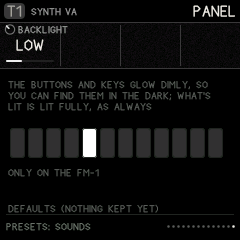
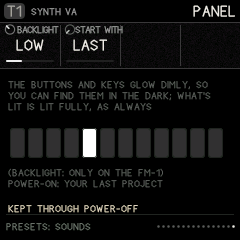
Power-on opens the last project saved or loaded (test build)
GLO > PANEL: START WITH LAST (the default) or BLANK, kept in the device settings with the slot last
saved or loaded (a third prefs version: the two before load, as LAST with none known). At power-on,
ravel_start opens that slot and says so ("OPENED 3 NAME") once the start screen is gone. Not after a
reset while it ran (a crash, a hang, an update: a mark in .noinit, which a reset keeps and a power-off
loses): then it starts blank ("AFTER A RESET: NEW PROJECT"), so a project that can't be opened can't stop
it starting. Clearing that slot forgets it. A damaged slot: a blank project, said so. No autosave, no
project format change; the slot is only read.

Host: reboot (off and on) and reset (a reset while it ran). Scenario start_last.rvl. README: PANEL,
the projects' start, What's new; the PANEL screenshot.

Claude-Session: https://claude.ai/code/session_01BwzGhPZLDZkrxZk5dy3Yyf

diff --git a/firmware/app/rv_ui.c b/firmware/app/rv_ui.c
@@ -232,7 +232,7 @@ static const page_t pages[] = {
     {SEC_SONG, V_ALL, PIC_CPU2, PR_NONE, "CPU 2", {{K_STRESS, 7}, {K_STRESS, 8}, {K_STRESS, 9}, {K_STRESS, 10}}},   /* BUFFER, GUARD, SCREEN, CORE TEST */
     {SEC_SONG, V_ALL, PIC_STRESS, PR_NONE, "STRESS", {{K_STRESS, 0}, {K_STRESS, 1}, {K_STRESS, 2}, NO}},   /* how much this unit takes */
     {SEC_SONG, V_ALL, PIC_FLASH, PR_NONE, "FLASH", {NO, NO, NO, NO}},   /* the flash as the boot set it up (read only) */
-    {SEC_SONG, V_ALL, PIC_PANEL, PR_NONE, "PANEL", {{K_LRN, 3}, NO, NO, NO}},   /* the FM-1's own: kept through power-off */
+    {SEC_SONG, V_ALL, PIC_PANEL, PR_NONE, "PANEL", {{K_LRN, 3}, {K_LRN, 5}, NO, NO}},   /* the FM-1's own: kept through power-off; START WITH: the last project at power-on, or a blank one */
 
     {SEC_SAVE, V_ALL, PIC_SAVE, PR_SLOT, "PROJECT", {{K_SAVE, 0}, {K_SAVE, 1}, {K_SAVE, 2}, NO}},   /* the action; the project's name, as SOUNDS names a sound */
     {SEC_SAVE, V_ALL, PIC_BANK, PR_BANK, "SOUNDS", {{K_BANK, 0}, {K_BANK, 1}, {K_BANK, 2}, {K_BANK, 3}}},   /* your own sounds, any kind, in banks A-D */
@@ -537,7 +537,10 @@ typedef struct {
     uint8_t back;                                     /* BACKLIGHT + 1 (0: never set, LOW); bit 7: STEP REC STAY */
     uint8_t nb;                                       /* the learned controls */
     mbind_t b[NBIND];
+    uint8_t start;                                    /* (third version) bit 0: START WITH a blank project (0: the last one) */
+    uint8_t last;                                     /* the project last saved or loaded: its slot + 1 (0: none) */
 } prefs_t;
+#define PREFS_V2 ((int)__builtin_offsetof(prefs_t, start))   /* (the second version: no START WITH) */
 static const uint8_t pref_gp[3] = {GP_MIDICH, GP_MIDICLK, GP_MIDITRN};
 static prefs_t prefs;
 static uint8_t prefs_dirty, prefs_tries;
@@ -547,6 +550,16 @@ static const page_t *prefs_pg;                        /* the page it changed on 
 static uint8_t learn;                                 /* 0 off, 1 armed: waiting for a knob, 2: a knob chosen, waiting for a controller */
 static uint16_t learn_pid;
 static uint8_t learn_sel;
+static void prefs_touch(void);
+static char boot_msg[28];                             /* (what power-on opened: ui_open_last) */
+static uint32_t boot_msg_at;
+static void prefs_last(int slot)                      /* the project to open at power-on (START WITH LAST) */
+{
+    if (prefs.last != slot + 1) {
+        prefs.last = (uint8_t)(slot + 1);
+        prefs_touch();
+    }
+}
 static void prefs_changed(int g);
 static int prefs_back_get(void) { return (prefs.back & 0x7F) ? ((prefs.back & 0x7F) - 1) & 3 : 1; }
 static int prefs_stay(void) { return (prefs.back >> 7) & 1; }   /* (bit 7 of back: STEP REC STAY) */
@@ -1198,11 +1211,11 @@ static RV_SMALL kinfo_t kb_info(kb_t k)
     case K_LRN: {
         static const char *const ln[] = {"OFF", "ARMED", "ARMED"}, *const one[] = {"TURN"};
         static const char *const bl[] = {"OFF", "LOW", "MID", "HIGH"}, *const st[] = {"NEXT", "STAY"};
-        static const char *const kn[] = {"LEARN", "DELETE", "CLEAR ALL", "BACKLIGHT", "STEP REC"};
-        r.name = kn[k.id < 5 ? k.id : 0];
+        static const char *const kn[] = {"LEARN", "DELETE", "CLEAR ALL", "BACKLIGHT", "STEP REC", "START WITH"}, *const sw[] = {"LAST", "BLANK"};
+        r.name = kn[k.id < 6 ? k.id : 0];
         r.fmt = PF_ENUM;
-        r.max = k.id == 0 ? 2 : k.id == 3 ? 3 : k.id == 4 ? 1 : 0;
-        r.names = k.id == 0 ? ln : k.id == 3 ? bl : k.id == 4 ? st : one;
+        r.max = k.id == 0 ? 2 : k.id == 3 ? 3 : k.id == 4 || k.id == 5 ? 1 : 0;
+        r.names = k.id == 0 ? ln : k.id == 3 ? bl : k.id == 4 ? st : k.id == 5 ? sw : one;
         break;
     }
     case K_SAVE:
@@ -1429,7 +1442,7 @@ static RV_SMALL int kb_get(kb_t k)
         }
     }
     case K_LRN:
-        return k.id == 0 ? learn : k.id == 3 ? prefs_back_get() : k.id == 4 ? prefs_stay() : 0;
+        return k.id == 0 ? learn : k.id == 3 ? prefs_back_get() : k.id == 4 ? prefs_stay() : k.id == 5 ? prefs.start & 1 : 0;
     case K_WF: {
         const rv_weft *w = &rv.weft[ui.track];
         int b = ui.wf_blk % WF_BLOCKS;
@@ -2720,6 +2733,7 @@ static void save_do(void)
     case 0: {
         int rc = rv_save(PLAT_PROJ(ui.cur_slot));
         if (rc == 0) {
+            prefs_last(ui.cur_slot);
             sx_cat(b, "SAVED TO ");
             sx_int(b + 9, ui.cur_slot + 1);
             msg(b);
@@ -2738,6 +2752,7 @@ static void save_do(void)
         rv_hush = 0;
         if (rc == 0) {
             ui_project_new();
+            prefs_last(ui.cur_slot);
             sx_cat(b, "LOADED ");
             sx_int(b + 7, ui.cur_slot + 1);
             msg(b);
@@ -2761,6 +2776,10 @@ static void save_do(void)
         break;
     case 6:                                           /* CLEAR: the slot emptied (the project you have is kept) */
         if (plat_proj_clear(PLAT_PROJ(ui.cur_slot)) == 0) {
+            if (prefs.last == ui.cur_slot + 1) {      /* (nothing to open at power-on now) */
+                prefs.last = 0;
+                prefs_touch();
+            }
             sx_cat(b, "CLEARED ");
             sx_int(b + 8, ui.cur_slot + 1);
             msg(b);
@@ -3356,9 +3375,13 @@ static void prefs_init(void)
     prefs_t p;
     __builtin_memset(&p, 0, sizeof p);
     n = plat_prefs_load(&p, sizeof p);
-    ok = (n == PREFS_V1 || n == (int)sizeof p) && p.magic == PREFS_MAGIC;
+    ok = (n == PREFS_V1 || n == PREFS_V2 || n == (int)sizeof p) && p.magic == PREFS_MAGIC;
     if (ok && n == PREFS_V1)
         p.back = p.nb = 0;                            /* (the first version: no backlight, nothing learned) */
+    if (ok && n < (int)sizeof p)
+        p.start = p.last = 0;                         /* (before the third: START WITH LAST, none known yet) */
+    if (p.last > PLAT_PROJECTS)
+        p.last = 0;
     for (i = 0; ok && i < 3; i++) {
         const rv_pinfo *pi = rv_pinfo_global(pref_gp[i]);
         ok = p.v[i] >= pi->min && p.v[i] <= pi->max;
@@ -3548,6 +3571,11 @@ static void lrn_turn(int id, int d)                   /* MIDI LEARN's knobs: LEA
 {
     if (id == 3) {
         prefs.back = (uint8_t)((clampi(prefs_back() + d, 0, 3) + 1) | (prefs.back & 0x80));
+        prefs_touch();
+        return;
+    }
+    if (id == 5) {                                    /* START WITH: the last project (LAST) or a blank one */
+        prefs.start = (uint8_t)(d > 0 ? prefs.start | 1 : prefs.start & ~1);
         prefs_touch();
         return;
     }
@@ -6170,7 +6198,8 @@ static void pic_panel(void)
         g_rbox(10 + i * 18, y + 48, 15, 30, 3, c, 1);
         g_rbox(10 + i * 18, y + 48, 15, 30, 3, C_LINE, 0);
     }
-    g_text(8, y + 88, &FONT_T, "ONLY ON THE FM-1", C_DIM);
+    g_text(8, y + 88, &FONT_T, "(BACKLIGHT: ONLY ON THE FM-1)", C_DIM);
+    g_text(8, y + 99, &FONT_T, prefs.start & 1 ? "POWER-ON: A BLANK PROJECT" : "POWER-ON: YOUR LAST PROJECT", C_DIM);
     g_text(8, y + 124, &FONT_T, st[prefs_state & 3], prefs_state == 3 ? C_RED : prefs_state == 0 ? C_TEAL : C_DIM);
 }
 
@@ -6979,8 +7008,14 @@ RV_SMALL void ui_frame(void)
         ui.c2_tried = 1;
         if (plat_par_on(1) == 0)
             rv_live.cores2 = 1;
-        else
+        else {
             msg("ONE CORE: POWER OFF AND ON FOR TWO");   /* (held after a crash or reset while it ran) */
+            boot_msg_at = plat_ms() + 2500u;          /* (power-on's own message after it) */
+        }
+    }
+    if (boot_msg[0] && (int32_t)(plat_ms() - boot_msg_at) >= 0) {   /* what power-on opened, once the start screen is gone */
+        msg(boot_msg);
+        boot_msg[0] = 0;
     }
     stress_tick();
     if (ui.bank_dirty && (plat_ms() - ui.bank_edit_ms > 1500u || (ui.sec != SEC_SAVE && cur_page()->pic != PIC_WEFTLIB)))
@@ -7021,6 +7056,44 @@ RV_SMALL void ui_frame(void)
         }
     }
     leds();
+}
+
+/* power-on: the last project saved or loaded opened (START WITH LAST), unless the FM-1 reset while Ravel
+ * ran (a crash, a hang, an update: a mark in memory a reset keeps and a power-off loses), so a project it
+ * can't open can't stop it starting: then it starts blank and says so */
+#define BOOT_MAGIC 0x52564f50u                        /* "POVR" */
+static struct { uint32_t magic, running; } boot_mark RV_NOINIT;
+void ui_boot_power(void) { boot_mark.magic = 0; }    /* (the desktop builds' power-off) */
+void ui_open_last(void)
+{
+    int reset = boot_mark.magic == BOOT_MAGIC && boot_mark.running == 1u, rc, s = prefs.last - 1;
+    boot_mark.magic = BOOT_MAGIC;
+    boot_mark.running = 1u;
+    boot_msg[0] = 0;
+    if ((prefs.start & 1) || prefs.last == 0)
+        return;
+    if (reset) {
+        sx_cat(boot_msg, "AFTER A RESET: NEW PROJECT");
+        return;
+    }
+    rv_hush = 1;
+    rc = rv_load(PLAT_PROJ(s));
+    if (rc == -2)
+        rv_demo(2);
+    rv_hush = 0;
+    if (rc == 0) {
+        ui.cur_slot = s;
+        ui_project_new();
+        sx_cat(boot_msg, "OPENED ");
+        sx_int(boot_msg + 7, s + 1);
+        if (rv.name[0]) {
+            sx_cat(boot_msg, " ");
+            sx_cat(boot_msg, rv.name);
+        }
+    } else if (rc == -2) {
+        ui_project_new();
+        sx_cat(boot_msg, "LAST PROJECT DAMAGED");
+    }
 }
 
 void ui_init(void)

diff --git a/host/ravel_host.c b/host/ravel_host.c
@@ -49,6 +49,7 @@
  *   expect matdst K NAME          matrix row K (1..8) moves NAME ("T1 HITS")
  *   expect ons T LO HI            the sequencer started from LO to HI notes on track T since "ons 0"
  *   chainclear T                  track T's (1..8) CHAIN with no cords
+ *   reset                         as reboot, but a reset while it ran (a crash): what survives a reset kept
  *   clear T                       track T's (1..8) current pattern: every step off
  *   ons 0                         count track notes from now
  *   setmatp K S T NAME A          matrix row K (1..8) from source S into track T's parameter NAME, amount A
@@ -511,8 +512,10 @@ int main(int argc, char **argv)
             sscanf(line, "%*s %x %x %x", &x, &y, &z);
             host_midi_push((int)x, (int)y, (int)z);
             run_ms(1);
-        } else if (!strcmp(a, "reboot")) {
+        } else if (!strcmp(a, "reboot") || !strcmp(a, "reset")) {   /* reboot: off and on; reset: a reset while it ran (memory kept) */
             held_btn = held_keys = 0;
+            if (!strcmp(a, "reboot"))
+                ui_boot_power();
             boot();
         } else if (!strcmp(a, "input")) {
             snprintf(path, sizeof path, "%s", b);

diff --git a/firmware/app/ravel_app.c b/firmware/app/ravel_app.c
@@ -29,11 +29,12 @@
 #pragma clang attribute pop
 #endif
 
-/* start: always a blank project */
+/* start: a blank project, then the last one saved or loaded (SONG > PANEL: START WITH) */
 void ravel_start(void)
 {
     rv_demo(2);                     /* a blank project; saved ones stay in their slots (SAVE > LOAD) */
     rv_engine_init();
     rv_bank_init();                 /* your sounds (SAVE > SOUNDS) */
     ui_init();
+    ui_open_last();                 /* the last project, if PANEL > START WITH is LAST (not after a reset) */
 }

diff --git a/firmware/app/rv.h b/firmware/app/rv.h
@@ -545,5 +545,7 @@ const char *rv_stress_name(int step);
 
 /* rv_ui.c: the control side */
 void ui_init(void);
+void ui_open_last(void);                        /* power-on: the last project opened (START WITH LAST), unless it reset while running */
+void ui_boot_power(void);                       /* (desktop builds) a power-off: the reset mark gone */
 void ui_frame(void);                            /* input, then a frame of the screen */
 void ui_input_only(void);

diff --git a/README.md b/README.md
@@ -50,6 +50,7 @@ Short versions; the [manual](https://de-pattern.github.io/Ravel_FM1/manual.html)
 - **The matrix moves the sequence:** LFO › MATRIX can now move a track's **LENGTH**, **HITS** and **ROTATE**, and CHANCE's settings, without rewriting the steps. [More](#8-lfo-modulation-and-macros)
 - **REC + SEQ:** the keys play notes on the SEQ pages without recording (a **KEYS** box shows it), so you can jam over a pattern, and **REC + SAVE** (TAKE) keeps what you just played. [More](#16-recording)
 - **WEFT block list:** hold EDIT and turn TYPE to pick a block from a list; AUDIO is at the end of the types. [More](#weft-a-voice-you-patch)
+- **Your last project at power-on:** switching on opens the project you last saved or loaded (GLO › PANEL: START WITH LAST or BLANK); after a crash it starts blank, so it can always start. [More](#13-glo-song-scenes-and-clock)
 - **A new start screen** with the version at the bottom right; and a fix: EUCLID on a cleared kit no longer lights every step.
 
 **New here?** Open the emulator ([Opening it](#1-opening-it)), load a demo, press Play, then read [The five moves](#3-the-five-moves-how-every-page-works). Everything else is reference.
@@ -1398,7 +1399,7 @@ The picture is the six lanes round an oval with their cords; the chosen lane's c
 | **CPU** | CORES: 2 (the default) gives the FM-1's second core the effects and every other voice; 1 turns it off (see below) | FLASH WT: OFF, or ON to count how much of the render waits for its code to come from the flash | VIEW: PARTS (the render's parts) or TRACKS (each track's cost) | SILENT: SKIP (the default) or PLAY: whether the voices of a track you can't hear stop (SKIP SILENT, below) | – |
 | **STRESS** | STEP: OFF, or 1–16, each adding load to the last (below) | ENGINE: the synth engine the voices use | AUTO: RUN walks the steps, three seconds each, and fills in the table | – | – |
 | **FLASH** | – (read only: how the boot set the flash up) | | | | – |
-| **PANEL** | BACKLIGHT: OFF, LOW (the default), MID, HIGH: how brightly the unlit buttons and keys glow, on the FM-1 | – | – | – | – |
+| **PANEL** | BACKLIGHT: OFF, LOW (the default), MID, HIGH: how brightly the unlit buttons and keys glow, on the FM-1 | START WITH: **LAST** (the default: at power-on, the project you last saved or loaded) or **BLANK** | – | – | – |
 
 <p align="center"><img src="docs/manual/song-cpu.png" alt="CPU" width="240"> <img src="docs/manual/song-stress.png" alt="STRESS" width="240"></p>
 <p align="center"><sub>(Taken on the desktop simulator, a far faster machine: the same project reads many times higher on the FM-1.)</sub></p>
@@ -1423,7 +1424,7 @@ Grains already playing finish as they were, and sounding WEFT voices play on: no
 
 **Two cores.** The FM-1's chip has two cores, and Ravel starts the second at power-on. It takes a share of the effect buses (three jobs: the BED with the SPACE it sends into, FEEDBACK, DELAY) and of the sounding tracks: a track it takes plays its voices and its own effects (SKIN, the INSERT, RING) there, while the first core plays the rest, and every track's level, pan and sends into the mix, in order. The tracks and the bus jobs are shared out whole by what they cost a moment ago, the dearest first, so that both cores finish at the same time (a bus job the first core keeps runs while the second core plays its voices); then single voices of a track with several, if that evens them out further (that track's effects stay on the first core). A heavy WEFT patch goes to whichever core has room, and heavy buses are split between the two. The CPU page shows its share (CORE 2 40 %), and WAIT how long the first core waited for it. For this the buses play one control step behind the tracks: the effects come about 3 ms after the dry sound, with one core or two, so the sound is the same either way. On some units the second core misreads memory, so it is watched: if it ever reads a wrong job or doesn't finish one in time, the first core takes the work back at once (CORE 2 FAILED on the CPU page), and after a crash or a hang with it running it stays off until the FM-1 is switched off and on (the top bar says ONE CORE: POWER OFF AND ON FOR TWO at start, and CORES reads 1). Installing an update is not counted: the second core comes back on its own afterwards. CORES 1 turns it off by hand.
 
-<p align="center"><img src="docs/manual/midi-learn.png" alt="MIDI LEARN: a control on CC 21 tied to T2's level" width="240"> <img src="docs/manual/panel.png" alt="PANEL: the backlight" width="240"></p>
+<p align="center"><img src="docs/manual/midi-learn.png" alt="MIDI LEARN: a control on CC 21 tied to T2's level" width="240"> <img src="docs/manual/panel.png" alt="PANEL: the backlight and START WITH" width="240"></p>
 
 **MIDI control of the knobs.** Two ways, and both follow MIDI IN's channel:
 
@@ -1433,6 +1434,8 @@ Grains already playing finish as they were, and sounding WEFT voices play on: no
 - The learned controls, like MIDI IN's settings and the backlight, belong to the FM-1, not to a project: they stay through power-off and whatever you load.
 
 **PANEL.** The FM-1's buttons and keys glow dimly, so you can find them in the dark; what's lit (the page's button, a step, a key held) stays lit fully, so the two never get mixed up. BACKLIGHT sets how dim: OFF, LOW, MID or HIGH. The glow comes from the panel's own scanning (each unlit LED is lit on one scan in a few), so it costs the sound nothing and the keys are read as before. It's kept through power-off.
+
+**START WITH.** On **LAST** (the default), switching on opens the project you last saved or loaded, and says so ("OPENED 3 MYSONG"); on **BLANK** it starts on a new project, as before. You still save as you go: it opens the project as you last saved it, not what you had when you switched off. Clearing that slot means a blank start. If the FM-1 reset while Ravel was running (a crash, a hang, an update), the next start is blank ("AFTER A RESET: NEW PROJECT"), so a project it can't open can never stop it starting; switch off and on to open it again.
 
 **FLASH.** The page after STRESS shows how the FM-1's boot set its flash up: the chip, its status (QE: whether its four-wire mode is allowed), the flash controller's read mode and clock divider. It is read once at start and nothing on it writes the flash. A photo of it tells whether a faster read is possible on that unit.
 
@@ -1526,7 +1529,7 @@ SAVE has two pages: **PROJECT** (the whole song) and **SOUNDS** (one track's sou
 5. Press **SAVE** once: the footer says "PRESS SAVE AGAIN TO CONFIRM".
 6. Press **SAVE** again to do it.
 
-Ravel starts on a blank project every time it is switched on (or the emulator is opened). Saved projects stay in their slots: load one with **LOAD**.
+When it's switched on (or the emulator is opened), Ravel opens the project you last saved or loaded (GLO › PANEL: START WITH LAST, the default), or a blank one (BLANK). Saved projects stay in their slots: load one with **LOAD**. There's no autosave: save before you switch off.
 
 A load is silent while it happens, so nothing half-loaded plays. If a saved project turns out to be damaged as it is read (its check fails), LOAD says **DAMAGED: A NEW PROJECT** and starts a blank one, rather than leaving a mix of the old project and part of the saved one; the damaged slot stays as it was.
 
